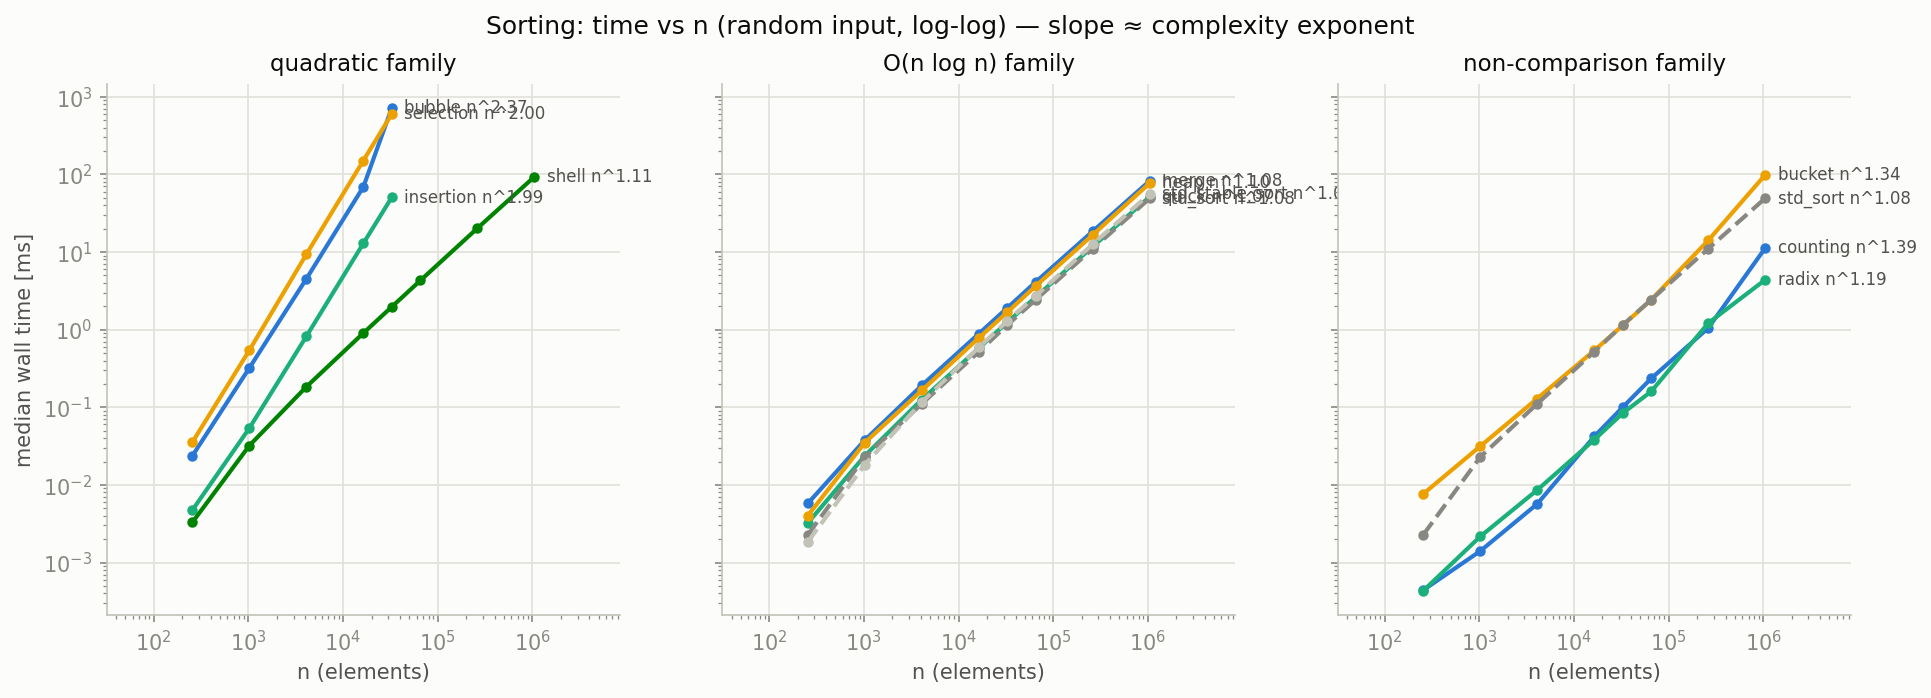
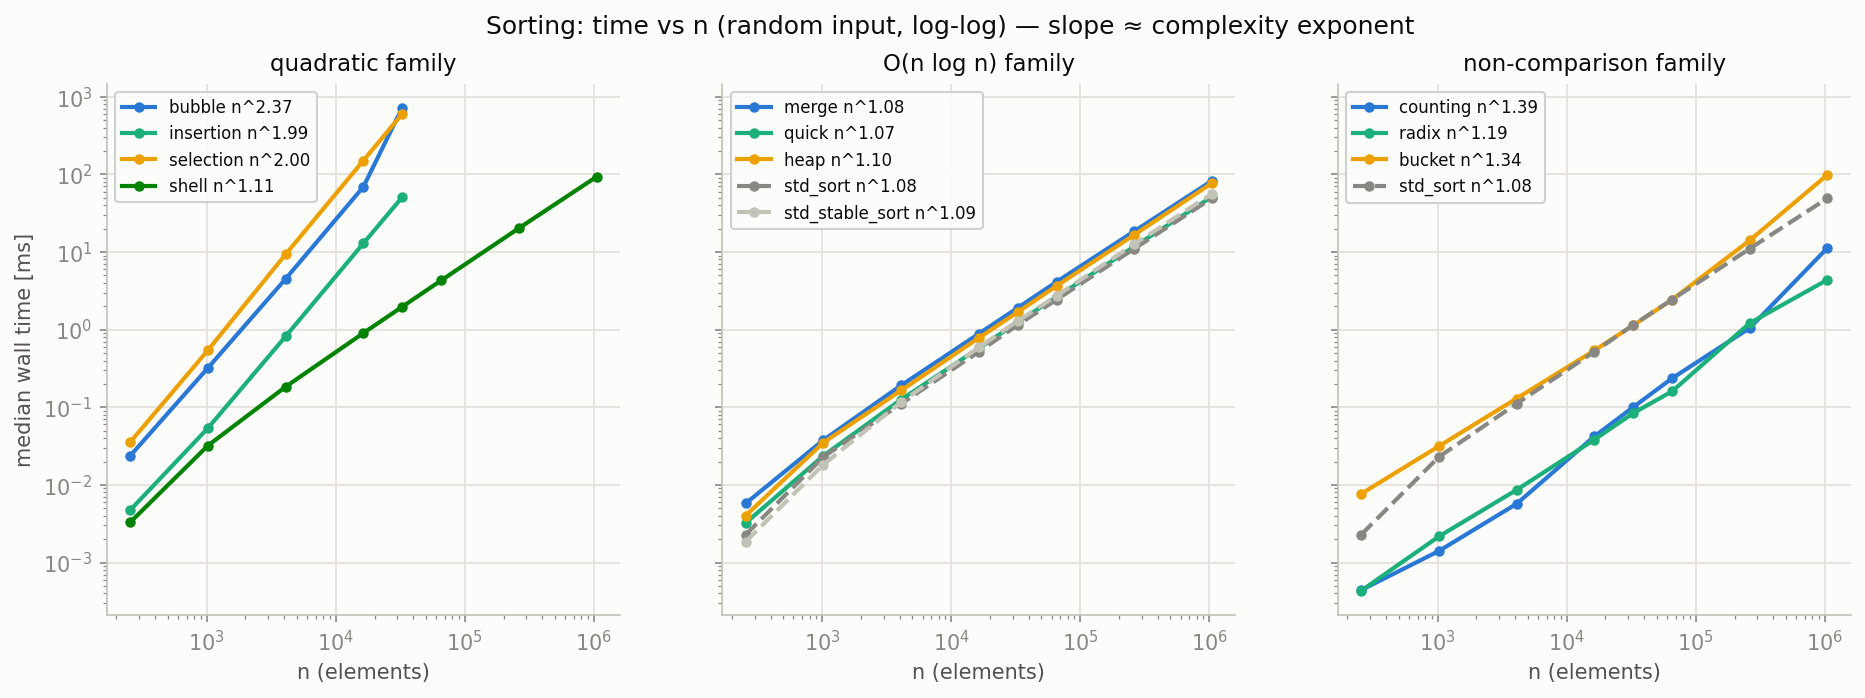
fix(cpp_algo_lab): replace colliding end labels with per-panel legends

diff --git a/cpp_algo_lab/scripts/plot_results.py b/cpp_algo_lab/scripts/plot_results.py
@@ -120,15 +120,14 @@ def plot_series(ax, sub: pd.DataFrame, algo: str, color: str, dashed: bool = Fal
     if s.empty:
         return
     n, y = s["n"].to_numpy(float), s["median_ms"].to_numpy(float)
-    ax.loglog(n, y, color=color, linestyle="--" if dashed else "-", marker="o", markersize=4)
-    ax.annotate(
-        f"{algo}{slope_label(n, y)}",
-        (n[-1], y[-1]),
-        textcoords="offset points",
-        xytext=(6, 0),
-        fontsize=8,
-        color=INK_2,
-        va="center",
+    ax.loglog(
+        n,
+        y,
+        color=color,
+        linestyle="--" if dashed else "-",
+        marker="o",
+        markersize=4,
+        label=f"{algo}{slope_label(n, y)}",
     )
 
 
@@ -144,7 +143,7 @@ def fig_time_vs_n(times: pd.DataFrame) -> None:
             plot_series(ax, sub, "std_stable_sort", BASELINE, dashed=True)
         ax.set_title(FAMILY_TITLES[fam], color=INK)
         ax.set_xlabel("n (elements)")
-        ax.margins(x=0.25)
+        ax.legend(fontsize=8, framealpha=0.9)
     axes[0].set_ylabel("median wall time [ms]")
     fig.suptitle(
         "Sorting: time vs n (random input, log-log) — slope ≈ complexity exponent", color=INK
@@ -237,23 +236,13 @@ def fig_ops(ops: pd.DataFrame) -> None:
             )
             n = s["n"].to_numpy(float)
             keep = y > 0
-            ax.loglog(n[keep], y[keep], color=COLOR[algo], marker="o", markersize=3)
-            if keep.any():
-                ax.annotate(
-                    algo,
-                    (n[keep][-1], y[keep][-1]),
-                    textcoords="offset points",
-                    xytext=(6, 0),
-                    fontsize=8,
-                    color=INK_2,
-                    va="center",
-                )
+            ax.loglog(n[keep], y[keep], color=COLOR[algo], marker="o", markersize=3, label=algo)
         s = sub[sub["algo"] == "std_sort"].sort_values("n")
         y = (s["comparisons"] if col == "comparisons" else s["moves"] + s["swaps"]).to_numpy(float)
-        ax.loglog(s["n"], y, color=MUTED, linestyle="--")
+        ax.loglog(s["n"], y, color=MUTED, linestyle="--", label="std_sort")
         ax.set_title(title, color=INK)
         ax.set_xlabel("n")
-        ax.margins(x=0.25)
+        ax.legend(fontsize=8, framealpha=0.9)
     axes[0].set_ylabel("operation count")
     fig.suptitle("Sorting: operation counts vs n (random input)", color=INK)
     save(fig, "ops_vs_n.png")